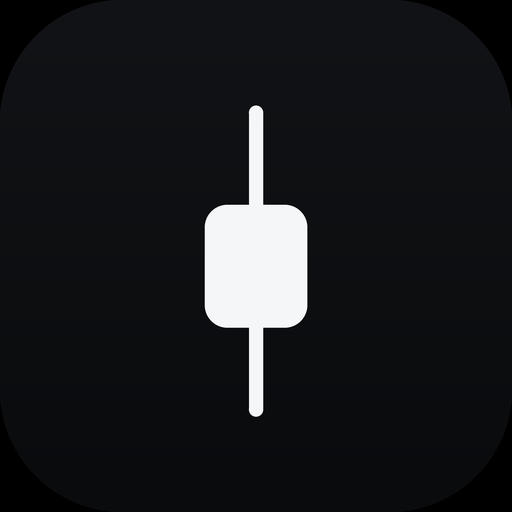
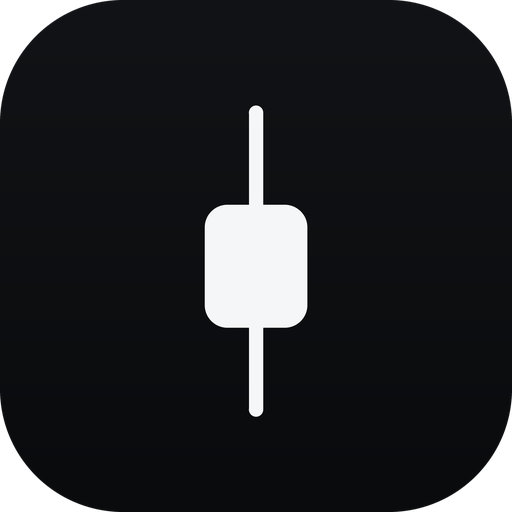
Add files via upload

diff --git a/index.html b/index.html
@@ -516,12 +516,11 @@ table.tradelist tr:hover td{background:var(--surface2);}
 }
 #splashScreen.hide{opacity:0;visibility:hidden;pointer-events:none;}
 .splash-mark{
-  width:34px;height:80px;
+  width:78px;height:78px;
   animation: splashPop .7s var(--ease) both, splashFloat 2.4s ease-in-out .7s infinite;
-  filter:drop-shadow(0 4px 10px rgba(0,0,0,0.4));
+  filter:drop-shadow(0 8px 20px rgba(0,0,0,0.45));
 }
 .splash-mark img{width:100%;height:100%;object-fit:contain;display:block;}
-[data-theme="light"] .splash-mark img{filter:invert(1) brightness(0.25);}
 @keyframes splashPop{
   0%{transform:scale(.4) rotate(-8deg);opacity:0;}
   60%{transform:scale(1.08) rotate(2deg);opacity:1;}
@@ -624,11 +623,10 @@ table.tradelist tr:hover td{background:var(--surface2);}
 }
 
 .auth-logo{
-  width:24px;height:56px;margin:0 auto 24px;display:block;
-  filter:drop-shadow(0 3px 8px rgba(0,0,0,0.35));
+  width:46px;height:46px;margin:0 auto 20px;display:block;
+  filter:drop-shadow(0 6px 14px rgba(0,0,0,0.4));
 }
 .auth-logo img{width:100%;height:100%;object-fit:contain;display:block;}
-[data-theme="light"] .auth-logo img{filter:invert(1) brightness(0.25);}
 
 .auth-tabs{
   display:flex;gap:3px;background:rgba(255,255,255,0.04);border:1px solid rgba(255,255,255,0.07);
@@ -750,7 +748,7 @@ table.tradelist tr:hover td{background:var(--surface2);}
 <body>
 
 <div id="splashScreen">
-  <div class="splash-mark"><img src="logo-glyph.png" alt="Wick"></div>
+  <div class="splash-mark"><img src="icon-192.png" alt="Wick"></div>
   <div class="splash-name">Wick</div>
   <div class="splash-sub" id="splashSub">Trade Journal</div>
   <div class="splash-bar"><div class="splash-bar-fill"></div></div>
@@ -758,7 +756,7 @@ table.tradelist tr:hover td{background:var(--surface2);}
 
 <div class="modal-overlay auth-overlay" id="langGate" style="z-index:300;">
   <div class="modal auth-card" style="max-width:380px;text-align:center;padding:36px 28px;">
-    <div class="auth-logo"><img src="logo-glyph.png" alt="Wick"></div>
+    <div class="auth-logo"><img src="icon-192.png" alt="Wick"></div>
     <h2 id="langGateTitle" style="margin-bottom:6px;">Wybierz język</h2>
     <p id="langGateSub" style="color:var(--muted);font-size:12.5px;margin-bottom:22px;">Możesz to zmienić później w ustawieniach.</p>
     <div id="langOptions" style="display:flex;flex-direction:column;gap:10px;margin-bottom:22px;"></div>
@@ -768,7 +766,7 @@ table.tradelist tr:hover td{background:var(--surface2);}
 
 <div class="modal-overlay auth-overlay" id="authGate" style="z-index:200;">
   <div class="modal auth-card" style="max-width:400px;padding:36px 30px;">
-    <div class="auth-logo"><img src="logo-glyph.png" alt="Wick"></div>
+    <div class="auth-logo"><img src="icon-192.png" alt="Wick"></div>
     <h2 id="authTitle" style="text-align:center;margin-bottom:6px;">Witaj w Wick</h2>
     <p id="authGateDesc" style="color:var(--muted);font-size:12.5px;text-align:center;margin-bottom:20px;line-height:1.4;">Zaloguj się, aby zobaczyć swój dziennik transakcji — Twoje dane są prywatne i widoczne tylko dla Ciebie.</p>
 
@@ -857,7 +855,7 @@ table.tradelist tr:hover td{background:var(--surface2);}
 
 <div class="modal-overlay auth-overlay" id="resetGate" style="z-index:400;">
   <div class="modal auth-card" style="max-width:400px;padding:36px 30px;">
-    <div class="auth-logo"><img src="logo-glyph.png" alt="Wick"></div>
+    <div class="auth-logo"><img src="icon-192.png" alt="Wick"></div>
     <h2 id="resetTitle" style="text-align:center;margin-bottom:6px;">Ustaw nowe hasło</h2>
     <p id="resetDesc" style="color:var(--muted);font-size:12.5px;text-align:center;margin-bottom:22px;line-height:1.4;">Wpisz nowe hasło do swojego konta.</p>
     <form id="resetForm">
